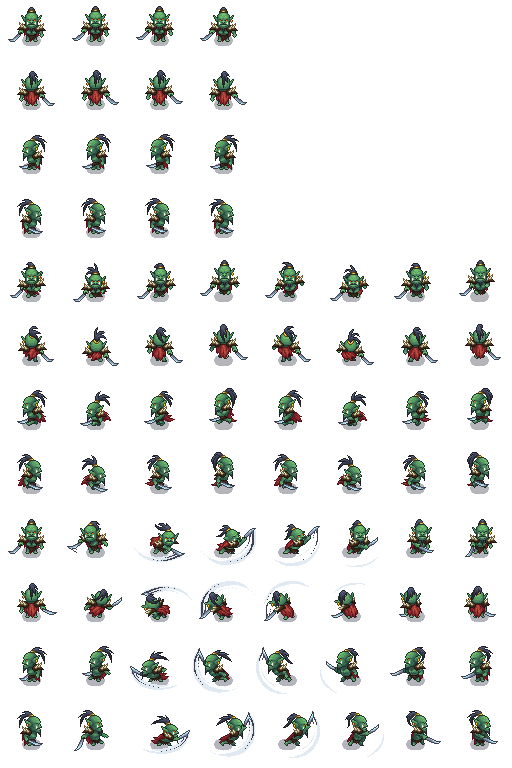
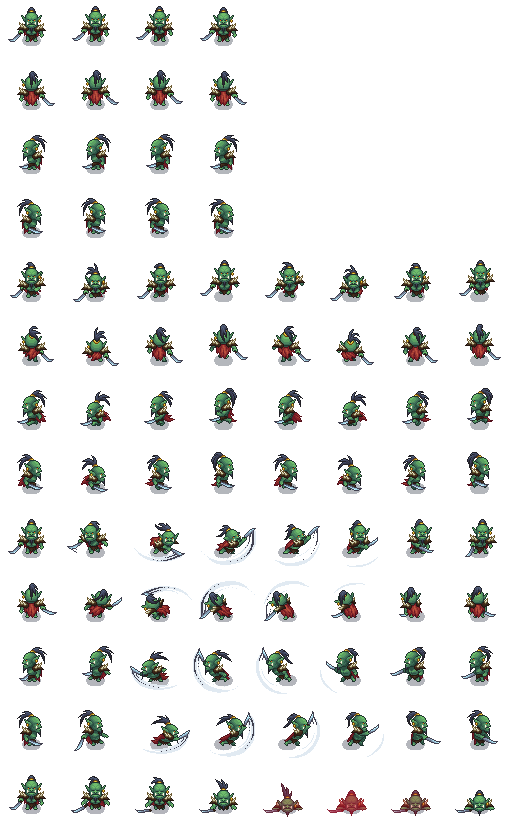
Ajout de l'animation de mort et correction de qq bugs liés au menu

diff --git a/src/HealthComponent.hpp b/src/HealthComponent.hpp
@@ -8,13 +8,16 @@
 class HealthComponent : public Component
 {
     private:
-        TransformComponent * transform;
+        TransformComponent *transform;
         StatisticsComponent *stats;
+        SpriteComponent *sprite;
         SDL_Texture *texture = GameManager::assets->GetTexture("health");
         std::string playerId;
         SDL_Rect healthFill, destRect;
         int imgWidth, imgHeight;
         float fullHealth, healthPercent;
+        Uint32 deathStart;
+        bool isDead = false;
     
     public:
         float health;
@@ -25,6 +28,7 @@ class HealthComponent : public Component
         {
             transform = &entity->getComponent<TransformComponent>();
             stats = &entity->getComponent<StatisticsComponent>();
+            sprite = &entity->getComponent<SpriteComponent>();
             health = fullHealth = std::get<float>(stats->stats["health"]);
 
             // Récupération des dimensions de l'image utilisée pour la barre de vie
@@ -38,14 +42,24 @@ class HealthComponent : public Component
 
         void update() override
         {
-            if(health > 0)
-                updateHealth(-0.01);
-            else
+            if(isDead && (SDL_GetTicks() - deathStart > sprite->deathAnimDuration))
             {
                 if(playerId == "player1")
                     GameManager::endOfRound("player2");
                 else
                     GameManager::endOfRound("player1");
+            }
+            else if(GameManager::inDeathAnimation)
+                return;
+            
+            if(health > 0)
+                updateHealth(-0.01);
+            else
+            {
+                isDead = true;
+                deathStart = SDL_GetTicks();
+                sprite->Play("Death");
+                GameManager::inDeathAnimation = true;
             }
 
             healthPercent = health / fullHealth;
@@ -72,6 +86,7 @@ class HealthComponent : public Component
         void reset() override
         {
             health = fullHealth = std::get<float>(stats->stats["health"]);
+            isDead = false;
         }
 };
 

diff --git a/src/GameManager.cpp b/src/GameManager.cpp
@@ -7,6 +7,7 @@ bool GameManager::isRunning = false;
 bool GameManager::inHomeMenu = true;
 bool GameManager::isPausing = false;
 bool GameManager::chosingCards = false;
+bool GameManager::inDeathAnimation = false;
 AssetManager* GameManager::assets = new AssetManager();
 EntitiesManager GameManager::entitiesManager;
 CardsManager GameManager::cardsManager;
@@ -138,6 +139,7 @@ void GameManager::render()
 
 void GameManager::reset()
 {
+	GameManager::inDeathAnimation = false;
 	entitiesManager.entities.erase(
 		std::remove_if(entitiesManager.entities.begin(), entitiesManager.entities.end(),
 			[](Entity* e) {
@@ -207,6 +209,14 @@ void GameManager::endOfRound(std::string playerId)
 	if(GameManager::nbWinsPlayer[playerId] >= GameManager::nbwinRounds)
 	{
 		std::cout << playerId << " a remporté la partie !" << std::endl;
+		// Réinitialisation complète du jeu
+		GameManager::nbWinsPlayer["player1"] = 0;
+		GameManager::nbWinsPlayer["player2"] = 0;
+		GameManager::reset();
+		delete player1;
+		delete player2;
+		player1 = new Entity(StatisticsComponent(500, 100, 0.07, 150, 5), TransformComponent(0,0,64,64,2), SpriteComponent("orc", true), ColliderComponent("player1", 17, 0, 30, 50), KeyboardController("player1"), HealthComponent("player1"));
+		player2 = new Entity(StatisticsComponent(500, 100, 0.07, 100, 3), TransformComponent(100,100,64,64,2), SpriteComponent("orc", true), ColliderComponent("player2", 17, 0, 30, 50), KeyboardController("player2"), HealthComponent("player2"));
 		inHomeMenu = true;
 		return;
 	}

diff --git a/src/SpriteComponent.hpp b/src/SpriteComponent.hpp
@@ -23,9 +23,9 @@ private:
 	std::string currentAnimation = "";
 
 public:
-
 	int animIndex = 0;
 	std::map<const std::string, std::map<const char*, int>> animations;
+	int deathAnimDuration = 2000;
 
 	SpriteComponent() = default;
 
@@ -44,6 +44,11 @@ public:
 
 	void setAnimation(std::string type, int index, int nbFrames, float animDuration)
 	{
+		if(type == "Death")
+		{
+			animations[type] = {{"index",index}, {"frames",nbFrames}, {"frameTime", animDuration/nbFrames}};
+			return;
+		}
 		animations[type + " Down"] = {{"index",index}, {"frames",nbFrames}, {"frameTime", animDuration/nbFrames}};
 		animations[type + " Up"] = {{"index",index+1}, {"frames",nbFrames}, {"frameTime", animDuration/nbFrames}};
 		animations[type + " Left"] = {{"index",index+2}, {"frames",nbFrames}, {"frameTime", animDuration/nbFrames}};
@@ -55,6 +60,7 @@ public:
 		setAnimation("Idle", 0, 4, 400);
 		setAnimation("Walk", 4, 8, 800);
 		setAnimation("Attack", 8, 8, std::get<float>(stats->stats["attackDuration"]));
+		setAnimation("Death", 12, 8, deathAnimDuration);
 
 		Play("Idle Down");
 	}
@@ -76,6 +82,9 @@ public:
 
 	void update() override
 	{
+		if(GameManager::inDeathAnimation && animIndex != 12)
+			return;
+		
 		if (animated)
 		{
 			// Grâce à animStartTime, on s'assure que la nouvelle animation seléctionnée démarre bien à la première frame

diff --git a/src/GameManager.hpp b/src/GameManager.hpp
@@ -37,7 +37,7 @@ class GameManager
 
         static SDL_Renderer *renderer;
         static SDL_Event event;
-        static bool isRunning, inHomeMenu, isPausing, chosingCards;
+        static bool isRunning, inHomeMenu, isPausing, chosingCards, inDeathAnimation;
         static AssetManager* assets;
         static EntitiesManager entitiesManager;
         static CardsManager cardsManager;

diff --git a/src/KeyboardController.hpp b/src/KeyboardController.hpp
@@ -135,6 +135,14 @@ class KeyboardController : public Component
 
 		void update() override
 		{
+			if(GameManager::inDeathAnimation)
+			{
+				for (auto& pair : isBeingPressed) {
+					pair.second = false;
+				}
+				return;
+			}
+			
 			if(isAttacking && (SDL_GetTicks() - attackStart > attackDuration))
 			{
 				isAttacking = false;

diff --git a/src/TransformComponent.hpp b/src/TransformComponent.hpp
@@ -47,6 +47,9 @@ class TransformComponent : public Component
 
 		void update() override
 		{
+			if(GameManager::inDeathAnimation)
+				return;
+				
 			position.x = position.x + direction.x*speed;
 			position.y = position.y + direction.y*speed;
 		}
